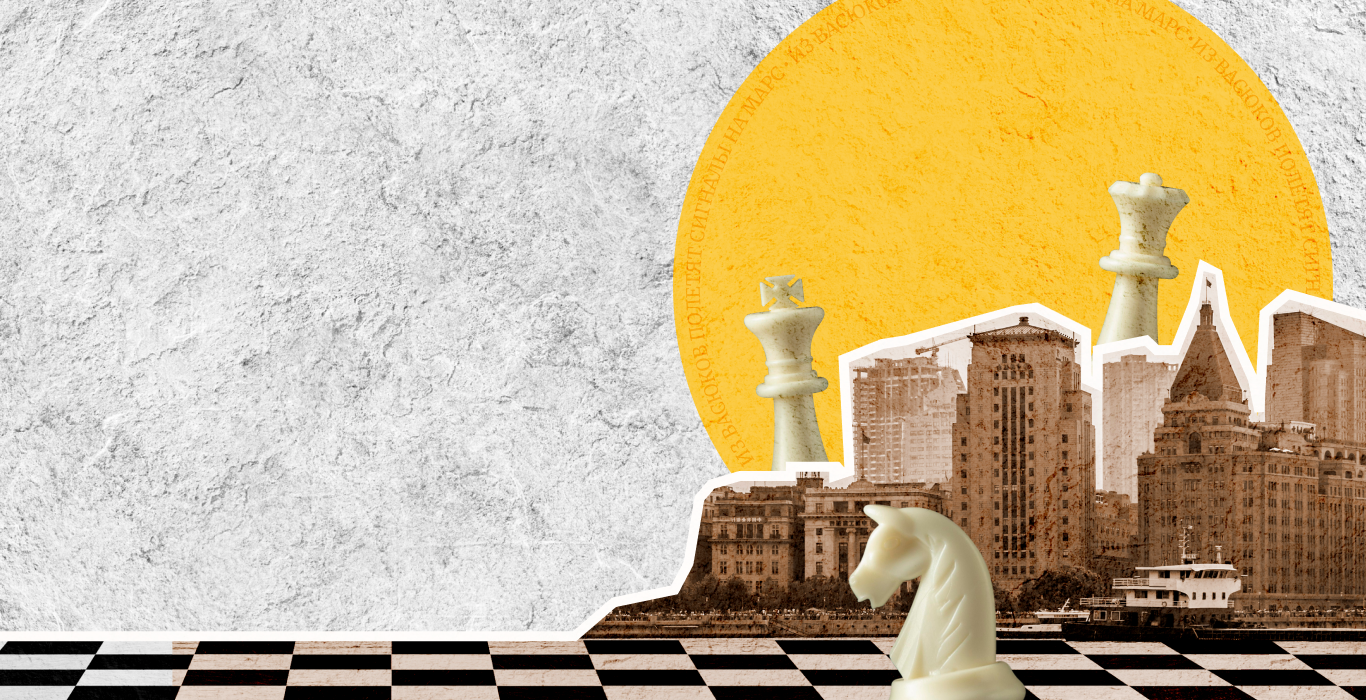
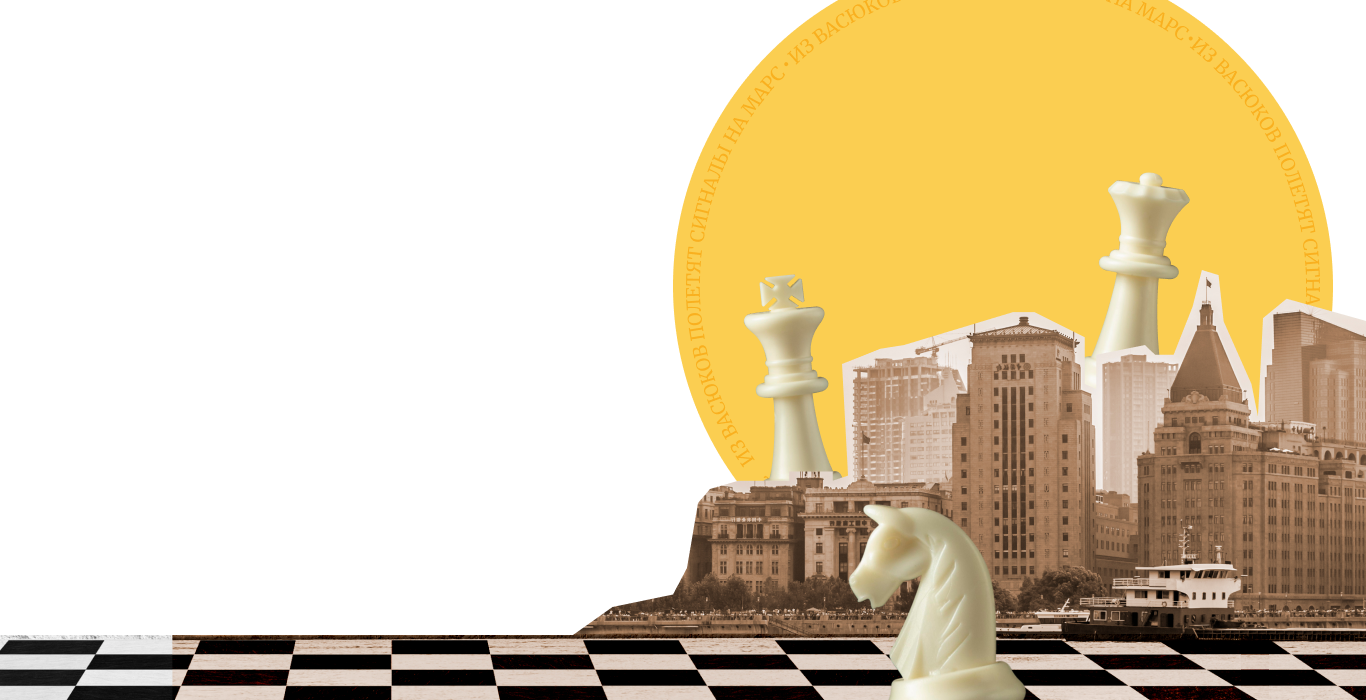
style: add background + overlay block

diff --git a/index.html b/index.html
@@ -18,21 +18,26 @@
     <title>Клуб четырех коней</title>
   </head>
   <body class="root">
-    <header class="header"></header>
-    <main class="main">
-      <section class="content">
-        <div class="content__info">
-          <h1 class="content__header">Превратите уездный город <span class="content__header_center-text">в столицу</span> земного шара</h1>
-          <p class="content__subtitle">
-            Оплатите взнос на телеграммы для организации Международного васюкинского турнира по шахматам
-          </p>
-        </div>
-        <div class="button button__box">
-          <button class="button__theme-dark">Поддержать шахматную мысль</button>
-          <button class="button__theme-white">Подробнее о турнире</button>
-        </div>
-      <!-- <img class="content__chess-img" src="./images/chess-main.png"/> -->
-      </section>
+    <div class="overlay">
+      <img class="overlay__background" src="./images/background-overlay.png"/>
+      <header class="header"></header>
+      <main class="main">
+        <section class="content">
+          <div class="content__info">
+            <h1 class="content__header">Превратите уездный город <span class="content__header_center-text">в столицу</span> земного шара</h1>
+            <p class="content__subtitle">
+              Оплатите взнос на телеграммы для организации Международного васюкинского турнира по шахматам
+            </p>
+          </div>
+          <div class="button button__box">
+            <button class="button__theme-dark">Поддержать шахматную мысль</button>
+            <button class="button__theme-white">Подробнее о турнире</button>
+          </div>
+       
+        </section>
+        <img class="overlay__chess-img" src="./images/chess-main.png"/>
+    </div>
+ 
       <marquee class="running-line" 
       behavior="scroll" direction="right" scrolldelay="60">&bull; Шахматы двигают вперёд не только культуру, но и экономику! &bull; Лёд тронулся, господа присяжные заседатели! &bull; Дело помощи утопающим — дело рук самих утопающих! &bull; </marquee>
     </main>

diff --git a/pages/index.css b/pages/index.css
@@ -9,14 +9,16 @@
 @import url('../blocks/content/__header/_center-text/content__header_center-text.css');
 @import url('../blocks/content/__info/content__info.css');
 @import url('../blocks/content/__subtitle/content__subtitle.css');
-@import url('../blocks/content/__chess-img/content__chess-img.css');
 /*BUTTON */
 @import url('../blocks/button/button.css');
 @import url('../blocks/button/__theme-dark/button__theme-dark.css');
 @import url('../blocks/button/__theme-white/button__theme-white.css');
 
 @import url('../blocks/running-line/running-line.css');
-
+/* OVERLAY  */
+@import url('../blocks/overlay/overlay.css');
+@import url('../blocks/overlay/__chess-img/overlay__chess-img.css');
+@import url('../blocks/overlay/__background/overlay__background.css');
 /* FOOTER */
 @import url('../blocks/footer/footer.css');
 @import url('../blocks/footer/__info/footer__info.css');

diff --git a/blocks/overlay/overlay.css b/blocks/overlay/overlay.css
@@ -1,0 +1,6 @@
+.overlay{
+  width: 100%;
+  height: 100%;
+  position: relative;
+  /* background-image: url('../../images/background-overlay.png'); */
+}

diff --git a/blocks/overlay/__chess-img/overlay__chess-img.css b/blocks/overlay/__chess-img/overlay__chess-img.css
@@ -1,0 +1,9 @@
+.overlay__chess-img{
+  width: 100%;
+  object-fit: cover;
+  position: absolute;
+  top: 0;
+  left: 0;
+  bottom: 0;
+  z-index: -1;
+}

diff --git a/blocks/root/root.css b/blocks/root/root.css
@@ -10,4 +10,5 @@
   -webkit-text-size-adjust: 100%;
   -ms-text-size-adjust: 100%;
   -moz-text-size-adjust: 100%;
+  margin: 0 auto;
 }

diff --git a/blocks/overlay/__background/overlay__background.css b/blocks/overlay/__background/overlay__background.css
@@ -1,0 +1,7 @@
+.overlay__background{
+  width: 100%;
+  object-fit: cover;
+  position: absolute;
+  z-index: -1;
+  opacity: 0.2;
+}
